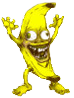
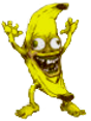
Added background

Changed region(s): [[0.0, 0.0, 0.973, 1.0]]

diff --git a/public/game/proggeesbar.js b/public/game/proggeesbar.js
@@ -5,10 +5,10 @@ function ProgressBar(game){
   game.add.text(400- 157/2, 70, 'Level: 0', { fontSize: '16px', fill: '#000' });
   this.progress.width = 0;
   this.progress.initialWidth = 157 
-  // the original image width in pixels// then on updateprogress.width = percentDone*progress.initialWidth; // percentDone should be in decimals 20% = 0.2// so this will finaly result in 1 * 300 = 100%
 
 }
 
 ProgressBar.prototype.updateProgress = function () {
   this.progress.width = 0.5*this.progress.initialWidth;
+    // the original image width in pixels// then on updateprogress.width = percentDone*progress.initialWidth; // percentDone should be in decimals 20% = 0.2// so this will finaly result in 1 * 300 = 100%
 }

diff --git a/public/game/player.js b/public/game/player.js
@@ -1,8 +1,9 @@
 function Player(game, cursors) {
 
   this.velocity = 350;
-  this.sprite = game.add.sprite(450, 500, 'player');
+  this.sprite = game.add.sprite(350, 500, 'player');
   this.sprite.anchor.set(0.5);
+  this.width = this.sprite.width/2;
   game.physics.arcade.enable(this.sprite);
 }
 Player.prototype.getSprite = function () {
@@ -10,11 +11,12 @@ Player.prototype.getSprite = function () {
 }
 Player.prototype.update = function () {
 
+
   if (cursors.left.isDown) {
-    this.sprite.x = 315;
+    this.sprite.x = 350-this.width/2;
     this.sprite.scale.x = 1;
   } else if (cursors.right.isDown) {
-    this.sprite.x = 485;
+    this.sprite.x = 450+this.width/2;
     this.sprite.scale.x = -1;
   }
 

diff --git a/public/game/game.js b/public/game/game.js
@@ -2,6 +2,8 @@ function create() {
     game.physics.startSystem(Phaser.Physics.ARCADE);
     cursors = game.input.keyboard.createCursorKeys();
     game.stage.backgroundColor = '#2d2d2d';
+    game.add.sprite(0, 0, 'background');
+
 
     score = 0;
     scoreText = game.add.text(16, 120, 'Score: 0', { fontSize: '32px', fill: '#000' });
@@ -26,8 +28,7 @@ function update(a,delta) {
 
 
 function collisionHandler (player, monkey) {
-    player.x = 400;
-    player.y = 32;
+    console.log('hit');
 }
 
 

diff --git a/public/game/assetsPreload.js b/public/game/assetsPreload.js
@@ -6,4 +6,5 @@ function preload() {
   game.load.image('scoreHud', 'images/scoreHud.png');
   game.load.image('proggresbaremp', 'images/proggresbaremp.png');
   game.load.image('proggresbarfull', 'images/proggresbarfull.png');
+  game.load.image('background', 'images/background.png');
 }

diff --git a/public/game/monkeys.js b/public/game/monkeys.js
@@ -20,7 +20,7 @@ Monkeys.prototype.spawnMonkey = function(){
 
 Monkeys.prototype.update = function(){
   function checkPos(monkey) {
-    if(monkey.y > 500){
+    if(monkey.y > 400){
       monkey.loadTexture('angryMonkey');
     }
     if (monkey.y > 600) {
